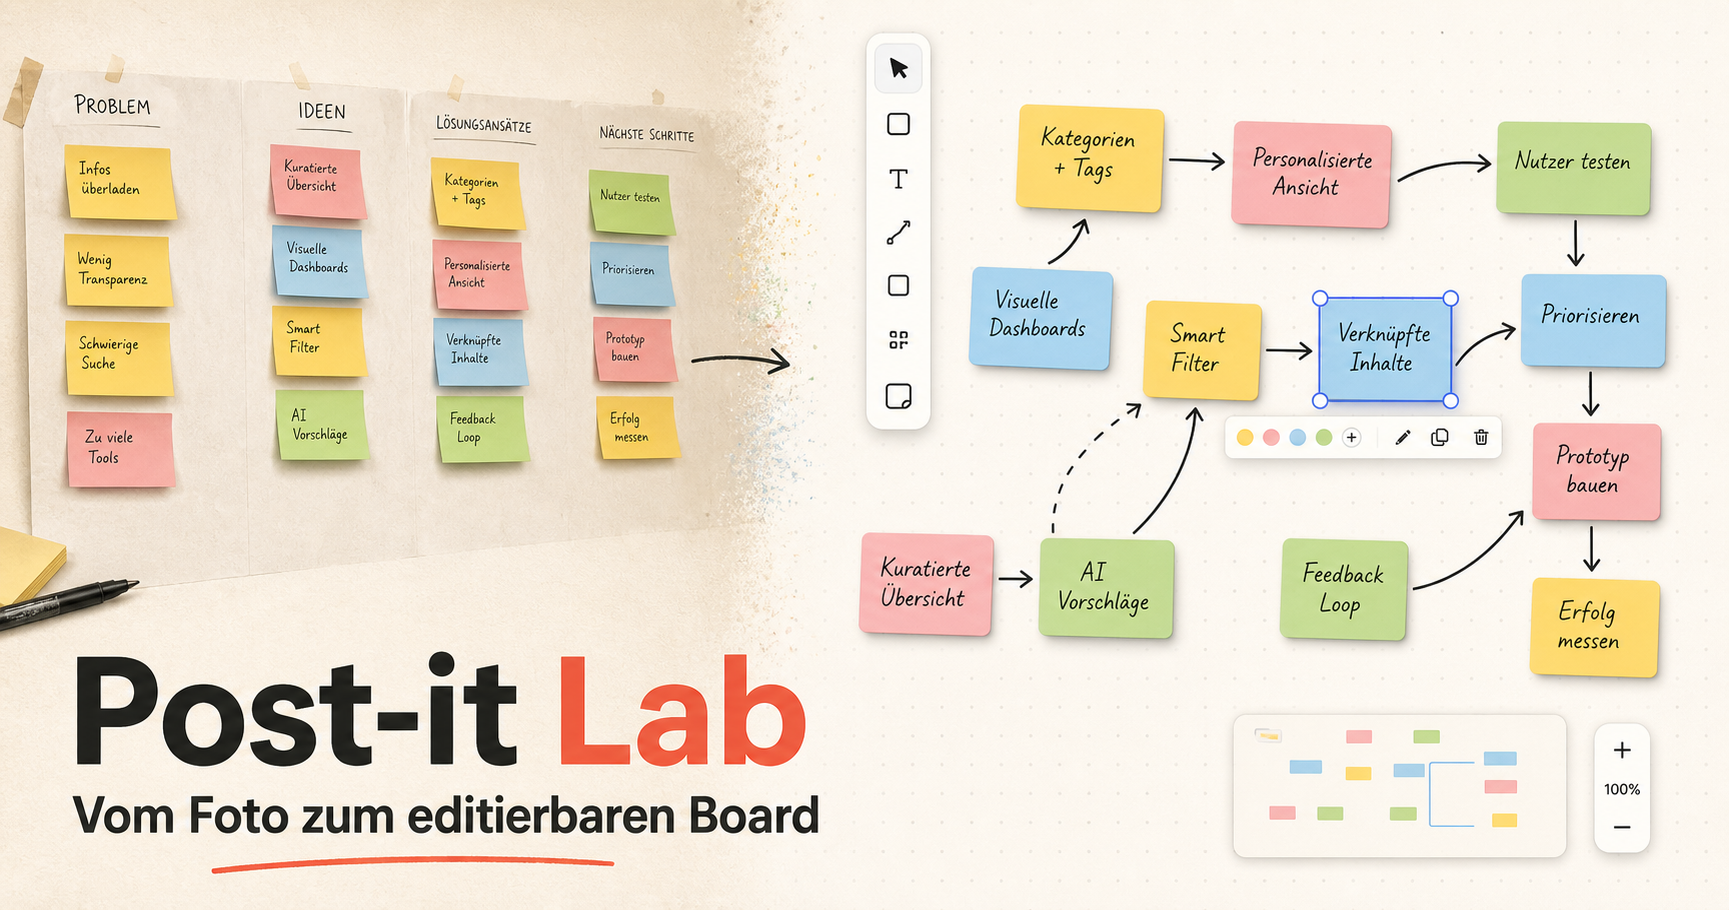
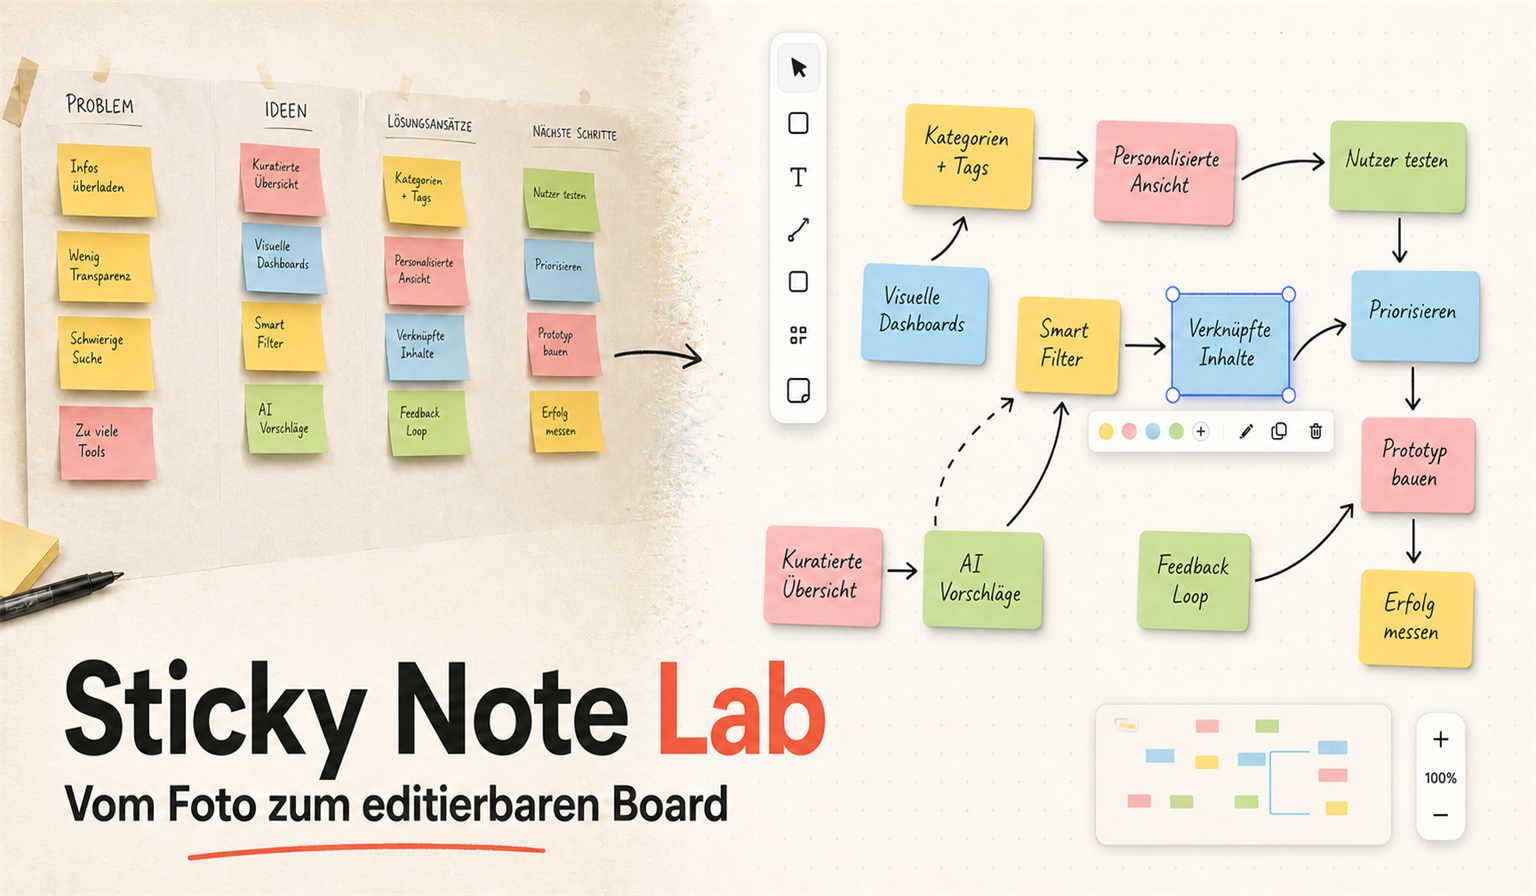
Rename project to Sticky Note Lab

diff --git a/app/page.tsx b/app/page.tsx
@@ -79,6 +79,8 @@ const DEMO_EDGES: Edge[] = [
 
 const PALETTE = ["#f7dc68", "#f2a3b4", "#a9d9ee", "#b9dfa5", "#cdb8ee", "#f2b46d", "#f6f0df", "#d6d8db"];
 const MIN_RESIZE_SIZE = 4;
+const BOARD_EXPORT_FORMAT = "sticky-note-lab-board";
+const LEGACY_BOARD_EXPORT_FORMAT = "postit-lab-board";
 
 function cloneSnapshot(notes: Note[], edges: Edge[]): Snapshot {
   return { notes: notes.map((note) => ({ ...note })), edges: edges.map((edge) => ({ ...edge })) };
@@ -526,7 +528,7 @@ export default function Home() {
       setSelectedId(detected.notes[0]?.id ?? null);
       if (new URLSearchParams(window.location.search).get("ocrDebug") === "1") {
         const snapshot = { diagnostics: detected.diagnostics ?? null, notes: detected.notes };
-        (window as Window & { __POSTIT_LAB_OCR_DIAGNOSTICS__?: typeof snapshot }).__POSTIT_LAB_OCR_DIAGNOSTICS__ = snapshot;
+        (window as Window & { __STICKY_NOTE_LAB_OCR_DIAGNOSTICS__?: typeof snapshot }).__STICKY_NOTE_LAB_OCR_DIAGNOSTICS__ = snapshot;
         window.dispatchEvent(new CustomEvent("ocr-diagnostics", { detail: snapshot }));
       }
       setToast(detected.notes.length
@@ -552,8 +554,8 @@ export default function Home() {
   };
 
   const exportJson = () => {
-    const payload = { format: "postit-lab-board", version: 3, createdAt: new Date().toISOString(), layoutMode, source: { fileName, photoIncluded: false, aspectRatio: boardAspectRatio }, notes, edges };
-    downloadBlob("postit-lab-board.json", new Blob([JSON.stringify(payload, null, 2)], { type: "application/json" }));
+    const payload = { format: BOARD_EXPORT_FORMAT, version: 4, createdAt: new Date().toISOString(), layoutMode, source: { fileName, photoIncluded: false, aspectRatio: boardAspectRatio }, notes, edges };
+    downloadBlob("sticky-note-lab-board.json", new Blob([JSON.stringify(payload, null, 2)], { type: "application/json" }));
     setToast("Board als JSON exportiert");
   };
 
@@ -564,7 +566,8 @@ export default function Home() {
     reader.onload = () => {
       try {
         const payload = JSON.parse(String(reader.result));
-        if (payload?.format !== "postit-lab-board" || !Array.isArray(payload.notes) || !Array.isArray(payload.edges)) throw new Error("Unbekanntes Format");
+        const supportedFormat = payload?.format === BOARD_EXPORT_FORMAT || payload?.format === LEGACY_BOARD_EXPORT_FORMAT;
+        if (!supportedFormat || !Array.isArray(payload.notes) || !Array.isArray(payload.edges)) throw new Error("Unbekanntes Format");
         pushHistory();
         const importedNotes = payload.notes.map((note: Note, index: number): Note => ({
           ...note,
@@ -582,7 +585,7 @@ export default function Home() {
         setSelectedId(importedNotes[0]?.id ?? null);
         setStatus("Importiertes Board bereit");
         setToast("Board importiert");
-      } catch { setToast("Dieses JSON ist kein gültiges Post-it-Lab-Board"); }
+      } catch { setToast("Dieses JSON ist kein gültiges Sticky-Note-Lab-Board"); }
     };
     reader.readAsText(file);
     event.target.value = "";
@@ -618,7 +621,7 @@ export default function Home() {
       ctx.fillText(line.trim(), -w / 2 + 22, lineY);
       ctx.restore();
     }
-    canvas.toBlob((blob) => { if (blob) downloadBlob("postit-lab-board.png", blob); }, "image/png");
+    canvas.toBlob((blob) => { if (blob) downloadBlob("sticky-note-lab-board.png", blob); }, "image/png");
     setToast("Board als PNG exportiert");
   };
 
@@ -651,7 +654,7 @@ export default function Home() {
   return (
     <main className="app-shell">
       <header className="topbar">
-        <div className="brand"><div className="brand-mark"><span /><span /><span /></div><div><h1>Post-it Lab</h1><p>Vom Foto zum editierbaren Board</p></div></div>
+        <div className="brand"><div className="brand-mark"><span /><span /><span /></div><div><h1>Sticky Note Lab</h1><p>Vom Foto zum editierbaren Board</p></div></div>
         <div className="project-name"><span className="status-dot" /><strong>{fileName || "Workshop-Experiment"}</strong><ChevronDown size={15} /></div>
         <div className="header-actions">
           <button className="icon-button" aria-label="Rückgängig" title="Rückgängig" disabled={!history.length} onClick={undo}><Undo2 size={18} /></button>
@@ -669,7 +672,7 @@ export default function Home() {
           </button>
           {imageSrc ? (
             <div className="source-preview">
-              <img src={imageSrc} alt="Hochgeladenes Post-it-Board" />
+              <img src={imageSrc} alt="Hochgeladenes Haftnotiz-Board" />
               <button className="preview-remove" onClick={() => { releaseImageObjectUrl(); setImageSrc(null); setFileName(""); setBoardAspectRatio(1.6); }} aria-label="Foto entfernen"><X size={15} /></button><div className="preview-name"><Check size={15} /> <span>{fileName}</span></div>
             </div>
           ) : <div className="capture-tips"><Sparkles size={17} /><div><strong>Für gute Ergebnisse</strong><p>Gerade fotografieren, Reflexionen vermeiden und möglichst nah ans Board gehen.</p></div></div>}

diff --git a/app/layout.tsx b/app/layout.tsx
@@ -13,15 +13,15 @@ export async function generateMetadata(): Promise<Metadata> {
   const socialImage = `${protocol}://${host}/og.png`;
 
   return {
-    title: "Post-it Lab – Board-Fotos digitalisieren",
-    description: "Lokales Experiment: Post-it-Boards aus Fotos erkennen, bearbeiten und verbinden.",
+    title: "Sticky Note Lab – Board-Fotos digitalisieren",
+    description: "Lokales Experiment: Haftnotiz-Boards aus Fotos erkennen, bearbeiten und verbinden.",
     icons: { icon: "/favicon.svg", shortcut: "/favicon.svg" },
     openGraph: {
-      title: "Post-it Lab",
+      title: "Sticky Note Lab",
       description: "Vom Foto zum editierbaren Board",
-      images: [{ url: socialImage, width: 1536, height: 896, alt: "Post-it Lab: physisches Board wird zum editierbaren Canvas" }],
+      images: [{ url: socialImage, width: 1536, height: 896, alt: "Sticky Note Lab: physisches Board wird zum editierbaren Canvas" }],
     },
-    twitter: { card: "summary_large_image", title: "Post-it Lab", description: "Vom Foto zum editierbaren Board", images: [socialImage] },
+    twitter: { card: "summary_large_image", title: "Sticky Note Lab", description: "Vom Foto zum editierbaren Board", images: [socialImage] },
   };
 }
 

diff --git a/app/overlap-geometry.ts b/app/overlap-geometry.ts
@@ -601,7 +601,7 @@ function scanOccludedComponent(
     const coverage = covered / Math.max(1, componentMask.pixels.length);
     // A real visible paper lobe should explain a coherent chunk of its colour
     // island. This prevents a sharp but small shadow/tinted-background corner
-    // from outranking the actual note (the dense-overlap fixture's left tail).
+    // from outranking the actual note (for example, a dense overlap's left tail).
     const rank = candidate.score * 0.6 + candidate.visible * 0.2 + Math.min(0.2, coverage * 0.3);
     return { candidate, covered, rank };
     }).sort((left, right) => right.rank - left.rank);
@@ -739,7 +739,7 @@ function suppressDuplicateGeometries(components: NoteGeometry[], baseShortSide: 
 }
 
 /**
- * Recovers partly hidden Post-its from their visible colour islands. A proposal
+ * Recovers partly hidden sticky notes from their visible colour islands. A proposal
  * must be supported by two adjacent physical sides; colour area alone is never
  * enough. That intentionally prefers a missed/flagged note over a giant false
  * rectangle that combines several overlapping papers.

diff --git a/tests/overlap-geometry.test.ts b/tests/overlap-geometry.test.ts
@@ -130,7 +130,7 @@ test("keeps differently coloured overlapping notes as separate objects", () => {
   assert.ok(result.some((component) => component.cluster === 2));
 });
 
-test("does not promote a tiny colour fragment to a Post-it", () => {
+test("does not promote a tiny colour fragment to a sticky note", () => {
   const width = 220;
   const height = 150;
   const labels = new Uint8Array(width * height);

diff --git a/THIRD_PARTY_NOTICES.md b/THIRD_PARTY_NOTICES.md
@@ -1,0 +1,65 @@
+# Third-Party Notices
+
+Sticky Note Lab includes third-party software, OCR models, language data and dictionaries. Those components remain subject to their own licenses. This document records the versions and bundled assets used by the current repository; it does not replace the referenced license texts and does not grant rights to the Sticky Note Lab application code itself.
+
+## Browser-distributed OCR components
+
+| Component | Version or bundled asset | License | Upstream | Included license / notice |
+| --- | --- | --- | --- | --- |
+| `@paddleocr/paddleocr-js` | 0.4.2 | Apache-2.0 | [PaddleOCR](https://github.com/PaddlePaddle/PaddleOCR) | Apache-2.0 text is included with the package in `node_modules` during development. Model provenance is recorded below. |
+| PaddleOCR / PaddleX models | `PP-OCRv6_small_det_onnx_infer.tar`, `PP-OCRv6_medium_rec_onnx_infer.tar` | Apache-2.0 | [PaddleOCR](https://github.com/PaddlePaddle/PaddleOCR) and official Paddle model storage | [`public/ocr-models/README.md`](public/ocr-models/README.md) |
+| DE·HTR v2 | `public/ocr-models/dehtr-v2/model.onnx` | Apache-2.0 | Copyright 2026 naeyn | [`public/licenses/dehtr-v2/LICENSE.txt`](public/licenses/dehtr-v2/LICENSE.txt), [`NOTICE.txt`](public/licenses/dehtr-v2/NOTICE.txt) |
+| ONNX Runtime Web | 1.24.3 and 1.27.0 browser side modules | MIT | [Microsoft ONNX Runtime](https://github.com/microsoft/onnxruntime) | [`public/onnx-paddle-1.24.3/LICENSE.txt`](public/onnx-paddle-1.24.3/LICENSE.txt), [`public/onnx-dehtr-1.27/LICENSE.txt`](public/onnx-dehtr-1.27/LICENSE.txt) |
+| Tesseract.js and Tesseract Core | 7.0.0 browser worker and WASM modules | Apache-2.0; bundled worker also contains MIT-licensed components | [Tesseract.js](https://github.com/naptha/tesseract.js) | [`public/tesseract/LICENSE.md`](public/tesseract/LICENSE.md), [`public/tesseract/worker.min.js.LICENSE.txt`](public/tesseract/worker.min.js.LICENSE.txt), [`public/tesseract-core/LICENSE`](public/tesseract-core/LICENSE) |
+| Tesseract language data | German and English trained-data files | Apache-2.0 | [tesseract-ocr](https://github.com/tesseract-ocr) | [`public/tessdata/LICENSE`](public/tessdata/LICENSE) |
+| `dictionary-de` / igerman98 | 3.0.0; German Hunspell data | GPL-2.0-only OR GPL-3.0-only | [wooorm/dictionaries](https://github.com/wooorm/dictionaries/tree/main/dictionaries/de) | [`public/dictionaries/LICENSE-de.txt`](public/dictionaries/LICENSE-de.txt); full [GPL-2.0](https://www.gnu.org/licenses/old-licenses/gpl-2.0.html) and [GPL-3.0](https://www.gnu.org/licenses/gpl-3.0.html) texts |
+| `dictionary-en` / SCOWL | 4.0.0; American English Hunspell data | MIT AND BSD, with additional source notices reproduced in the license file | [wooorm/dictionaries](https://github.com/wooorm/dictionaries/tree/main/dictionaries/en) | [`public/dictionaries/LICENSE-en.txt`](public/dictionaries/LICENSE-en.txt) |
+
+Commercial use is not prohibited by the licenses above. Redistribution may require preserving license and copyright notices; redistribution of the German dictionary must additionally follow the selected GPL version's conditions. The dictionaries are separate data assets and are not relicensed as part of Sticky Note Lab.
+
+## Model and language-data integrity
+
+The following SHA-256 values identify the exact large files tracked by Git LFS:
+
+| Asset | SHA-256 |
+| --- | --- |
[5 lines of base64/hex data omitted]
+
+## Application runtime dependencies
+
+Direct runtime dependencies used by the application:
+
+| Package | Version | License |
+| --- | --- | --- |
+| `drizzle-orm` | 0.45.2 | Apache-2.0 |
+| `lucide-react` | 1.31.0 | ISC |
+| `nspell` | 2.1.5 | MIT |
+| `onnxruntime-web` | 1.27.0 | MIT |
+| `react`, `react-dom` | 19.2.6 | MIT |
+| `tesseract.js` | 7.0.0 | Apache-2.0 |
+
+Relevant transitive runtime packages are licensed under Apache-2.0, MIT, ISC, BSD-2-Clause, BSD-3-Clause, Boost Software License 1.0 or Python-2.0. This includes `@techstark/opencv-js`, `flatbuffers`, `idb-keyval`, `long`, `tesseract.js-core`, `wasm-feature-detect`, the `@protobufjs/*` packages, `protobufjs`, `clipper-lib`, `guid-typescript`, `bmp-js`, `node-fetch`, `regenerator-runtime`, `scheduler`, `webidl-conversions`, `whatwg-url` and `zlibjs`.
+
+The authoritative package versions are pinned in `pnpm-lock.yaml`. A fresh inventory can be generated with:
+
+```bash
+pnpm licenses list --prod
+```
+
+## Build and development tools
+
+The source repository also references build and test tooling, including Vinext, Vite, TypeScript, ESLint, Tailwind CSS, Wrangler and Cloudflare packages. These tools are not presented as Sticky Note Lab code and retain the licenses declared by their respective packages and lockfile entries.
+
+## Assets created for this repository
+
+- `public/og.png` is the project-specific social preview for Sticky Note Lab.
+- The repository intentionally contains no third-party board photograph or stock-photo fixture.
+- The simple SVG interface icons shipped in `public/` originate from the project starter and remain covered by their original source terms where applicable.
+
+## No endorsement or trademark license
+
+Names and marks of third parties are used only to identify their components. Their inclusion does not imply endorsement and does not grant a trademark license.

diff --git a/README.md b/README.md
@@ -1,12 +1,12 @@
-# Post-it Lab
+# Sticky Note Lab
 
-Post-it Lab verwandelt ein Foto eines Post-it-Boards in ein editierbares digitales Board. Die Verarbeitung läuft lokal im Browser: Notizen werden erkannt, perspektivisch vermessen, per OCR gelesen und anschließend als verschiebbare Objekte dargestellt.
+Sticky Note Lab verwandelt ein Foto eines Haftnotiz-Boards in ein editierbares digitales Board. Die Verarbeitung läuft lokal im Browser: Notizen werden erkannt, perspektivisch vermessen, per OCR gelesen und anschließend als verschiebbare Objekte dargestellt.
 
-![Post-it Lab](public/og.png)
+![Sticky Note Lab](public/og.png)
 
 ## Funktionen
 
-- farb- und kantenbasierte Erkennung von Post-its
+- farb- und kantenbasierte Erkennung von Haftnotizen
 - Rekonstruktion teilweise überlappter und gedrehter Notizen
 - perspektivisch entzerrte Mehrfach-OCR mit PaddleOCR, DE·HTR und Tesseract
 - Erkennung einfacher Symbole wie Herz, Pfeile, Ausrufezeichen und Smileys
@@ -48,7 +48,7 @@ pnpm test
 pnpm run lint
 ```
 
-Die Tests prüfen unter anderem perspektivische Geometrie, überlappende Notizen, OCR-Fusion, Textkorrektur, Symbolerkennung, Modell-Assets und den Produktions-Build.
+Die Tests prüfen unter anderem perspektivische Geometrie, überlappende Notizen, OCR-Fusion, Textkorrektur, Symbolerkennung, Modell-Assets und den Produktions-Build. Das Repository enthält bewusst keine fremden Board-Fotos; Bildtests verwenden ausschließlich synthetische Testdaten.
 
 ## Projektstruktur
 
@@ -60,6 +60,6 @@ Die Tests prüfen unter anderem perspektivische Geometrie, überlappende Notizen
 
 ## Datenschutz und Lizenzhinweise
 
-Fotos bleiben im Browser und werden nicht hochgeladen. Die mitgelieferten Drittanbieter-Modelle, Wörterbücher und OCR-Runtimes behalten ihre jeweiligen Lizenzen; die zugehörigen Hinweise liegen unter `public/licenses/` und in den jeweiligen Asset-Ordnern.
+Fotos bleiben im Browser und werden nicht hochgeladen. Die mitgelieferten Drittanbieter-Modelle, Wörterbücher und OCR-Runtimes behalten ihre jeweiligen Lizenzen; eine Übersicht mit Quellen, Versionen, Prüfsummen und lokalen Lizenzpfaden steht in [`THIRD_PARTY_NOTICES.md`](THIRD_PARTY_NOTICES.md).
 
 Dieses Repository enthält derzeit keine allgemeine Open-Source-Lizenz und ist als privates Experiment gedacht.
